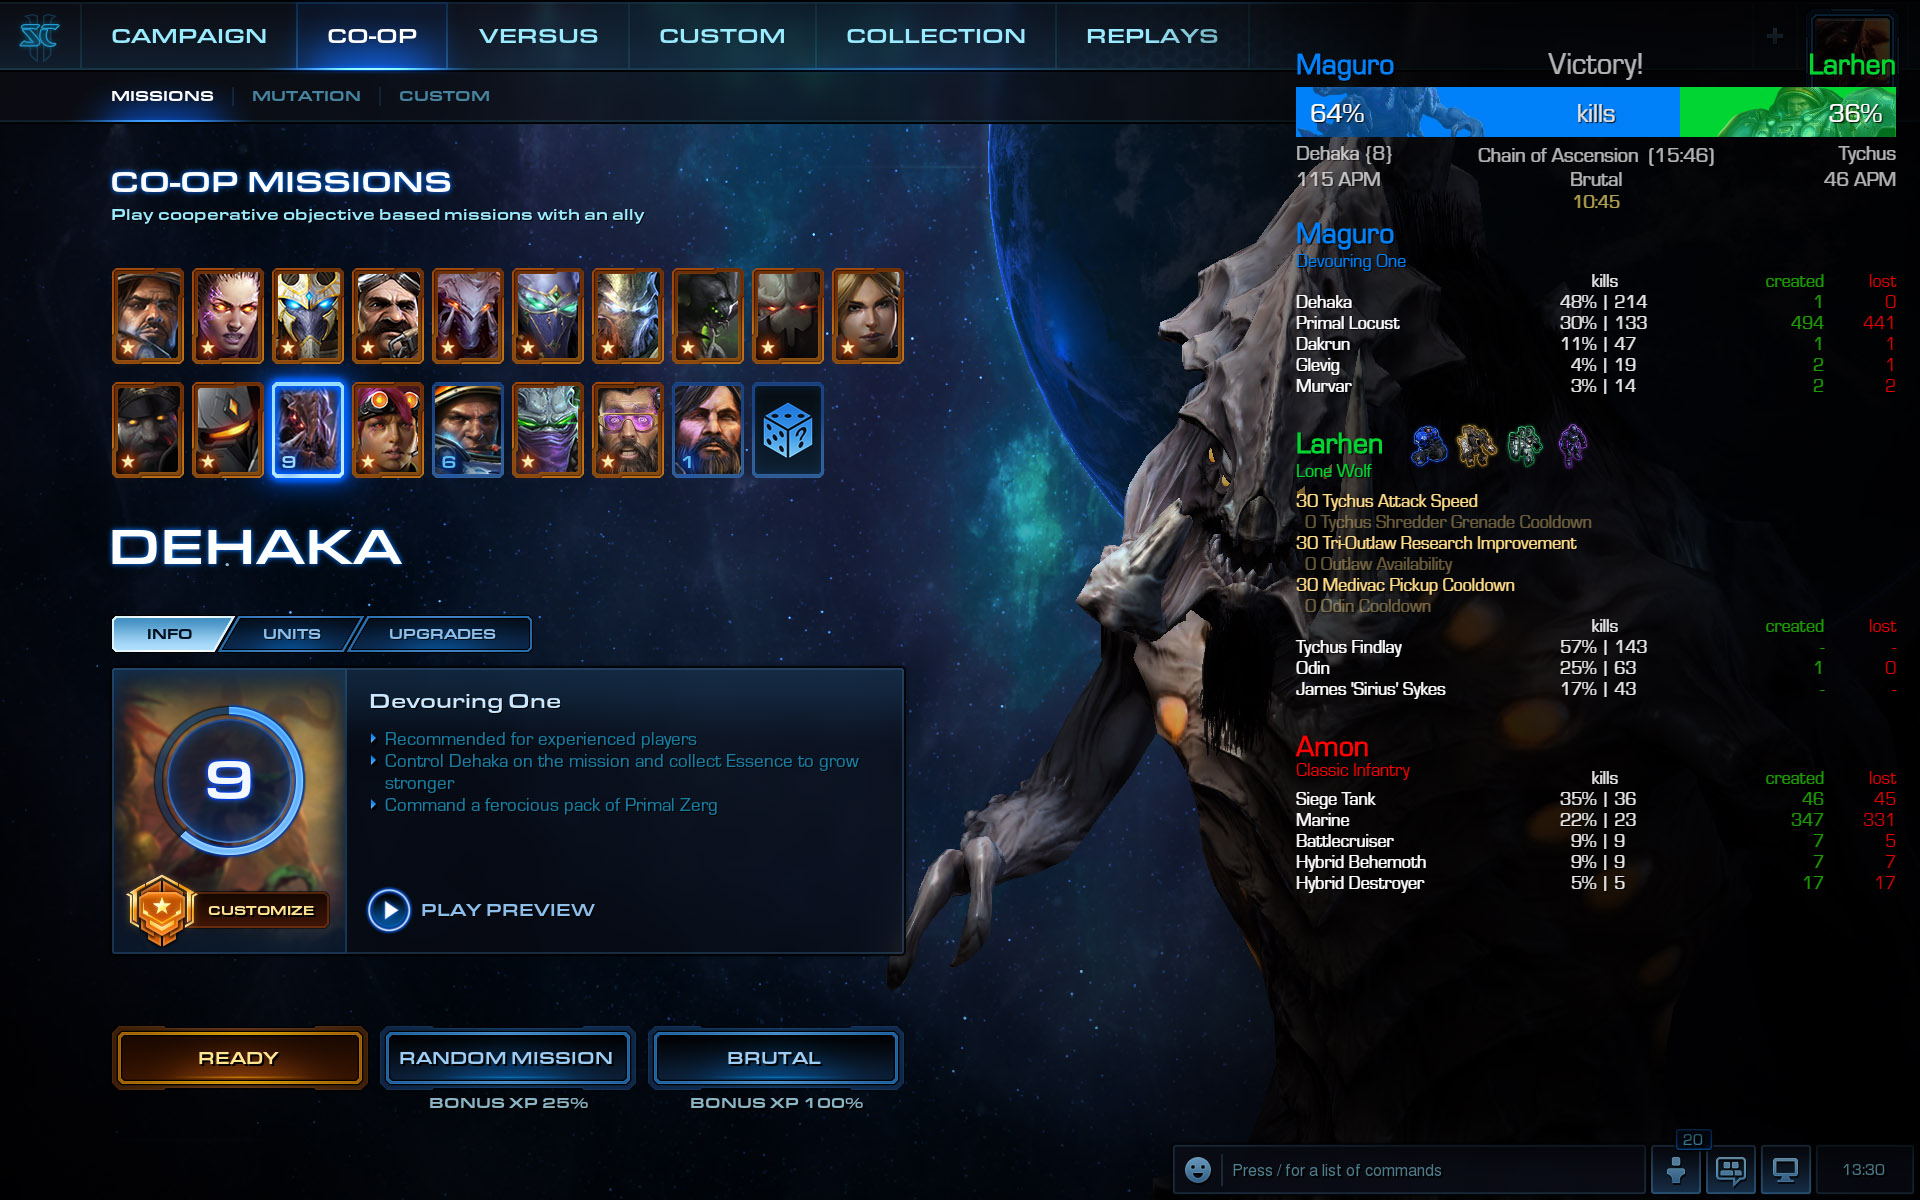
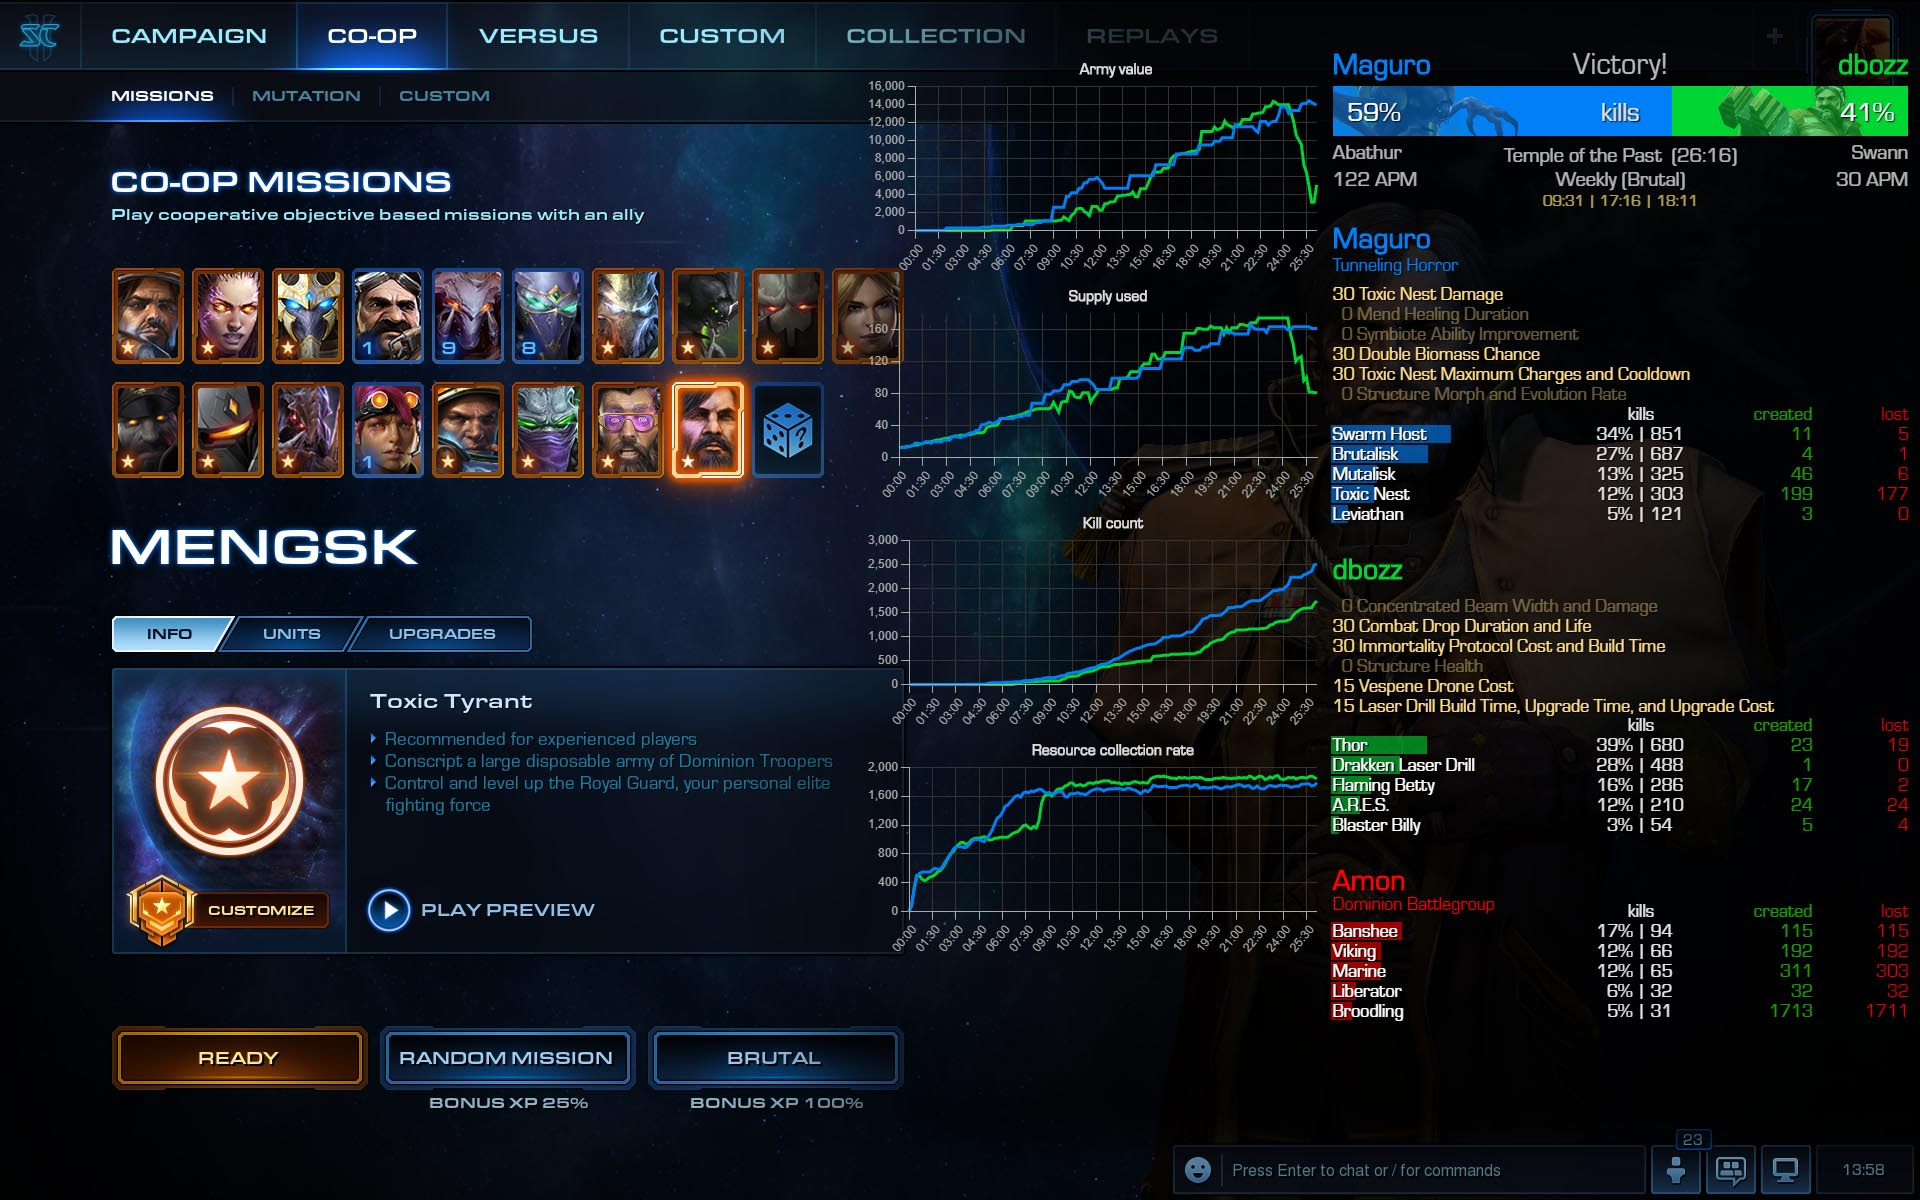
Version 2.36

diff --git a/SCOFunctions/StatsCounter.py b/SCOFunctions/StatsCounter.py
@@ -427,7 +427,7 @@ class StatsCounter:
             # Combat units cost 25% more
             elif self.prestige == 'Apex Predator' and unit not in {
                     'BileLauncherZagara', 'QueenCoop', 'QueenCoopBurrowed', 'Overseer', 'OverseerSiegeMode', 'SpineCrawler', 'SpineCrawlerUprooted',
-                    'SporeCrawler', 'SpineCrawlerUprooted'
+                    'SporeCrawler', 'SporeCrawlerUprooted'
             }:
                 cost = self.update_cost(cost, 1.25, 1.25)
 

diff --git a/README.md b/README.md
@@ -1,6 +1,6 @@
 # StarCraft II Coop Overlay (SCO)
 
-* [**DOWNLOAD HERE**](https://github.com/FluffyMaguro/SC2_Coop_overlay/releases/download/2.35/SC2CoopOverlay.2.35.zip)
+* [**DOWNLOAD HERE**](https://github.com/FluffyMaguro/SC2_Coop_overlay/releases/download/2.36/SC2CoopOverlay.2.36.zip)
 * Or run the script with Python 3.8+:
 
 ```
@@ -99,7 +99,47 @@ On Windows 7 enable aero theme and set “Enable Transparency” in “Window Co
 * Indirectly killed Interceptors are counted towards player kills which is not the case in kills showed in-game. Directly killed interceptors are counted in both cases.
 
 
+# Overlay customization
+
+For customization locate **custom.css** and **custom.js** in the overlay folder (in Layouts/).
+These files contain your customization and are not overridden when the the overlay updates.
+
+**>> Change the number of units shown <<**
+
+Add this to *custom.js* and change the value. Higher numbers might overlap with other elements or won't fit onscreen.
+```javascript
+maxUnits = 5;
+```
+**>> Hide bars under units <<**
+
+Add this to *custom.css*
+```css
+.unitkillbg {
+    opacity: 0;
+}
+```
+**>> Hide certain charts <<**
+
+Add this to *custom.js*, and remove those that you don't want.
+```javascript
+CC = {
+    'army': null,
+    'supply': null,
+    'killed': null,
+    'mining': null
+  }
+  ```
+
+
 # Changelog
+
+* 2.36 version
+
+      - Added graphs for army value, used supply, kills, mining rate
+      - Bars under units show relative number of kills. These can be compared between commanders.
+      - Abathur P3 correctly identified
+      - Many fixes for unit counting
+      - Minor tweaks and fixes
 
 * 2.35 version
 
